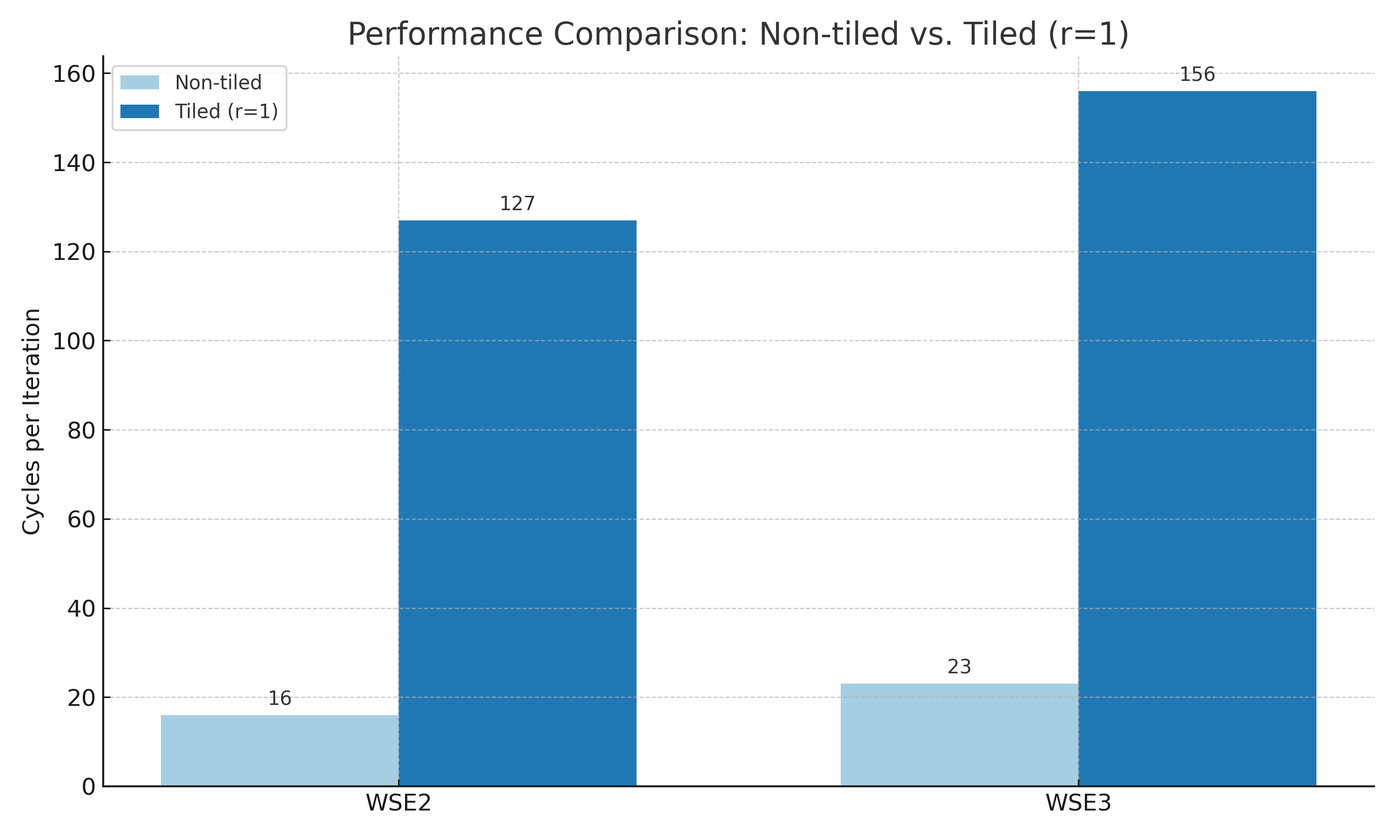
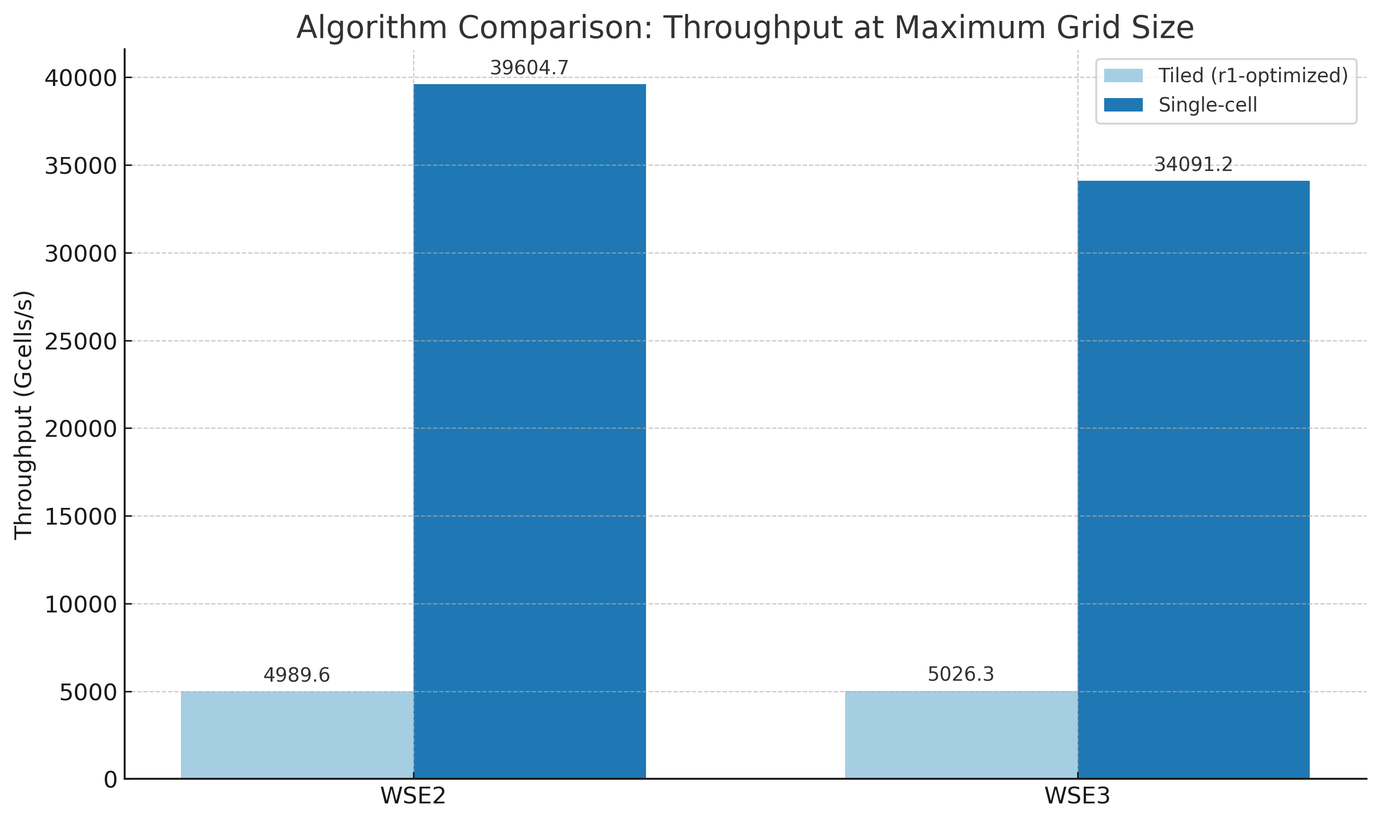
finished editing experiments section

diff --git a/03_Content/6_Experiments.tex b/03_Content/6_Experiments.tex
@@ -13,15 +13,6 @@ Furthermore, we run our own weak scaling experiments on the simulator and find t
 We measure the runtime of our algorithm by calculating it from the recoreded number of clock cycles used per iteration and the clock speed of the \ac{wse}. This is the standard methodology for recording performance data on Cerebras hardware \cite{jacquelin2022scalable}.
 Specifically, we ran every experiment for four iterations and took the average cycle count of the third and fourth iteration as we found the cycle count could be slightly inaccurate in the first two iterations \autoref{sec:stability_of_cycle_count_per_iteration}.
 
-To comapre the implementation to traditional \ac{hpc} hardware, we implemented our 2D star-shaped stencil using the Devito framework (version 4.8.19) in python (version 3.12.11). For this implementation we used the same symmetric, constant coefficients as we used for the experiments on the \ac{wse}.
-Devito can optimize compile the code for different hardware.
-We used a system with two AMD EPYC 9554 64-Core processors for the \ac{cpu} experiments and a system with one NVIDIA H100 SXM 80GB for the \ac{gpu} experiments. 
-For the \ac{gpu} experiments set Devito to use the OpenACC backend and the nvc compiler in version 25.5. The cuda driver version was 12.8.
-The experiments for \ac{cpu} and \ac{gpu} were conducted in the Vast.ai cloud.
-The system for the \ac{cpu} experiments has a total of \qty{128}{\mega\byte} of L2 cache and \qty{512}{\mega\byte} of L3 cache. It is equipped with \qty{1511}{\giga\byte} of DDR5 memory.
-
-%  The system has a total of \qty{128}{\mega\byte} of L2 cache and \qty{512}{\mega\byte} of L3 cache. It is equipped with \qty{1511}{\giga\byte} of DDR5 memory.
-
 \section{Foundational Characteristics on the WSE}
 Before comparing our stencil implementation for the \ac{wse} to other types of hardware, we first analyze its intrinsic scaling properties and stability.
 This includes our own weak scaling experiments, another set of experiments to analyze if the recored cycle count is stable for differnt numbers of iterations, and finally an analysis of our theoretical performance model and a comparison with it. 
@@ -82,6 +73,7 @@ Because of the higher flucuations in cycle count in the first two iterations, we
 \end{figure}
 
 \subsection{Theoretical Performance Model}
+\label{sec:c}
 We now analyze the impact of tiling and radius, both in our theoretical performance model and with experiments using our implementation.
 \begin{figure}[h]
     \centering
@@ -106,48 +98,33 @@ The largest tile size we could test is \numproduct{64 x 64} cells with a radius 
 \section{Comperative Performance Analysis}
 Comparing our implementation against implementations optimized for traditional \ac{hpc} architectures lets us assess for what parameters it is most benefitial. We also compare our specialized single cell implementation to the tiled implementation.  
 
-\subsection{Specialized vs. General-Purpose Kernel}
+\subsection{Specialized vs. General Kernel}
 The single-cell implementation is a heavily optimized implementation for the special case of only one element per \ac{pe}. It is useful for situations where the problem size is smaller than the physical dimensions of the \ac{wse}. In contrast to the tiled implementation, it doesn't require any runtime \ac{dsd} to \ac{dsr} transfers, asynchronous communication or multiple tasks. These aspects cause most of the overhead in the tiled implementation. Furthermore it does implement overlap between communication and computation which makes it significantly faster than the r1 optimized version of the tiled implementation.
 \begin{figure}[h]
     \centering
-    \includegraphics[width=0.5\linewidth]{algo_comparison.png}
-    \caption{Performance comparison of the specialized non-tiled and the r1-optimized tiled implementations for a radius-1 stencil. The specialized, non-tiled algorithm is significantly faster, achieving an 8x speedup on \ac{wse}-2 and a 7x speedup on \ac{wse}-3 due to its simpler communication and execution model.}
+    \includegraphics[width=0.7\linewidth]{algo_comparison.png}
+    \caption{Performance comparison of the specialized non-tiled and the r1-optimized tiled implementations for a radius-1 stencil. The specialized, non-tiled implementation achievieves an 8x speedup on \ac{wse}-2 and a 7x speedup on \ac{wse}-3.}
     \label{fig:algo_comparison}
 \end{figure}
 
-\section{Comparison of Cerebras and traditional \ac{hpc}-Arcitectures}
-We conducted two more experiments to compare the performance of the implemented stencil on the Cerebras \ac{wse} with highly optimized Devito implementations for \ac{cpu} and \ac{gpu}. 
+\subsection{Comparison with HPC Architectures}
+To quantify the advantage of the \ac{wse} architecture, we conducted two more experiments comparing the performance of our stencil inpmpenetation with highly optimized Devito implementations for \ac{cpu} and \ac{gpu}. 
 
-For each benchmark we fixed the total work load, i.e., $width\times height\times N$, so that every configuration performs the same number of stencil updates while varying only the memory footprint. Steady-state performance was obtained by first running an untimed warm-up of $N$ iterations (triggering JIT compilation, allocations and data transfers) and then timing a second run of the same $N$ iterations with all data already resident on the \ac{cpu} or \ac{gpu}. This was done for grids with a total size of $10^x$ for $x \in \{4..9\}$ and radii in \numrange{1}{6}.
-The compute work, while in this experiment constant for different grid sizes, rises linearly with the radius, which on the other hand has no significant effect on memory footprint.
-Furthermore, we calculated the neccessary tile size to fit the same grid sizes on the \ac{wse}-3 and ran an experiment with this tile size for radii \numrange{1}{6} and a total grid size that results in \numproduct{5 x 5} active \acp{pe} in the simulator for four iterations and took the average cycle count of the last two iterations.
-Assuming perfect scaling accross the WSE as suggested by the results from \autoref{sec:pe_overhead}, we used this cycle count together with the \ac{wse}s clock frequency to calculate the theoretical throughput when using the entire \ac{wse} dimensions.
-We also added the throughput, the non-tiled algorithm would achieve on the \ac{wse}-3 where the \ac{wse}-3s hardware dimensions allow for the grid size.
-As the $width$ and $height$, we strictly used powers of 10, resulting in rectangular grids for odd $x$.
-To have all experiments use \numproduct{5 x 5} active \acp{pe} in the simulator, we used a grid size of $\roundbrack{3\times t_w + 2r, 3\times t_h + 2r}$.
+To enable a fair evaluation, we implemented the same 2D star-shaped stencil using the Devito framework (version 4.8.19) in python (version 3.12.11), using the same symmetric, constant coefficients that we used for the experiments on the \ac{wse}.
+Devito automatically optimizes and compiles the code for various hardware targets.
+For the \ac{cpu} experiments, we used a system equipped with two AMD EPYC 9554 64-Core processors. For the \ac{gpu} experiments, we employed a system with one NVIDIA H100 SXM 80GB \ac{gpu}, configured Devito to use the OpenACC backend, and compiled with the nvc compiler (version 25.5) under CUDA driver version 12.8. All \ac{cpu} and \ac{gpu} experiments ran in the Vast.ai cloud.
+Steady-state performance was obtained by first running an untimed warm-up of $N$ iterations (triggering JIT compilation, allocations and data transfers) and then timing a second run of the same $N$ iterations with all data already resident on the \ac{cpu} or \ac{gpu}.
+This was done for grids with a total size of $10^i$ for $i \in \{4..9\}$ and $r\in{1..6}$.
 
-To ensure the entire problem grid fits onto the available number of \acp{pe}, the tile size ($t_w$, $t_h$) for a given grid of size ($G_w$, $G_h$) on a \ac{wse} with physical dimensions ($P_w$, $P_h$) is determined by:
+To compare these results with our implementation, we started from each grid size and calculated the minimal tile size that would allow the entire grid to fit on the \ac{wse}-3.
+We then ran simulations with this tile size for radii 1 to 6 and extrapolated the full-system throughput assuming perfect weak scaling. Furthermore we added the throughput that the single-cell implementation could achieve on the \ac{wse}-3 where the problem size is smaller than the physical dimensions of the \ac{wse}.
+
+In all experiments, we strictly used powers of 10 for the grid dimensions, sometimes resulting in rectangular grids (e.g. \numproduct{1e3 x 1e4} instead of \numproduct{\sqrt{1e7} x \sqrt{1e7}}). The required tile size ($t_w \times t_h$) for a given grid of size $G_w \times G_h$ on a \ac{wse} with physical dimensions $P_w \times P_h$ is determined by:
 \begin{equation}
     t_w = \left\lceil \frac{G_w}{P_w} \right\rceil, \quad t_h = \left\lceil \frac{G_h}{P_h} \right\rceil
 \end{equation}
 
-For example, to map the \numproduct{10e3 x 10e4} grid onto the \ac{wse}-3 with its \numproduct{762 x 1176} \acp{pe} array, we calculate the tile size. Mapping the grid's width to the \acp{pe} array's width results in a tile width of $\left\lceil \frac{1000}{762} \right\rceil = 2$ and a tile height of $\left\lceil \frac{10000}{1176} \right\rceil = 9$. However, mapping the grid's width to the \acp{pe} array's height is more efficient, yielding a tile width of $\left\lceil \frac{1000}{1176} \right\rceil = 1$ and a tile height of $\left\lceil \frac{10000}{762} \right\rceil = 14$. To minimize the total tile area and therefore the per-\ac{pe} workload, we chose the smaller configuration of $1 \times 14$. It is important to note that due to the radius constraint from \autoref{eq:radius_constraint}, the shorter dimension of the tile must be at least as large as the radius, so the effective tile size was adjusted accordingly if necessary.
-
-\begin{table}[h]
-    \centering
-    \caption{Final parameters for the experiment in the simulator for a grid size of \num{1e7}}
-    \begin{tabular}{ll}
-        \hline
-        Parameter & Value \\
-        \hline
-        Grid size & \numproduct{5 x 44} \\
-        Tile size & \numproduct{1 x 14} \\
-        Radius & \num{1} \\
-        Number of iterations & \num{2} and \num{4} \\
-        \hline
-    \end{tabular}
-    \label{tab:sim_params}
-\end{table}
+To map a rectangular grid of \numproduct{10e3 x 10e4} elements onto the \ac{wse}-3 with its dimensions of \numproduct{762 x 1176} \acp{pe}, we can calculate the tile size in two possible ways. Mapping the grid's width to the \ac{wse}'s width results in a tile width of $\left\lceil \frac{1000}{762} \right\rceil = 2$ and a tile height of $\left\lceil \frac{10000}{1176} \right\rceil = 9$. However, mapping the grid's width to the \ac{wse}'s height is more efficient, yielding a tile width of $\left\lceil \frac{1000}{1176} \right\rceil = 1$ and a tile height of $\left\lceil \frac{10000}{762} \right\rceil = 14$. To minimize the total tile area and therefore the per-\ac{pe} workload, we always chose the smaller configuration of $1 \times 14$. It is important to note that due to the radius constraint from \autoref{eq:radius_constraint}, the shorter dimension of the tile must be at least as large as the radius, so the effective tile size was adjusted accordingly if necessary.
 
 \begin{figure}[h]
     \centering
@@ -156,59 +133,60 @@ For example, to map the \numproduct{10e3 x 10e4} grid onto the \ac{wse}-3 with i
     \label{fig:gpu_cpu_constant_product}
 \end{figure}
 
-The results, shown in \autoref{fig:gpu_cpu_constant_product}, show that the \ac{cpu}'s throughput is very insensitive to the work allocation and differs only by a factor of \num{2.3} between its most efficient grid size of \num{1e6} and its least efficient grid size of \num{1e8} at a radius of 1. For the largest tested radius of \num{6} this effect is even smaller at a factor of \num{1.2}.
+\subsubsection{\ac{cpu} Performance}
+The results, shown in \autoref{fig:gpu_cpu_constant_product}, demonstrate that the \ac{cpu}'s throughput is unaffected by problem size and differs only by a factor of \num{2.3} between its ideal grid size of \num{1e6} and its least ideal grid size of \num{1e8} using radius one. For the largest tested radius of \num{6} this effect is even smaller at a factor of \num{1.2}.
 
-The \ac{cpu}s insensitivity to the work allocation suggests that it is compute limited.
-This gets confirmed by the fact that the \ac{cpu} throughput scales almost inversely with the radius. For the \ac{cpu} and its optimal grid size of $\num{1e6}$, the throughput for the radius-1 stencil is \num{6.2} times higher than for the radius-6 stencil, which is \num{6} times as computationally expensive. This proves the system's vast cache and the optimizations techniques applied by Devito very effective.
+If the problem was memory-bound, one would assume the \ac{cpu} to be more efficient for small grid sizes they could fit it the faster caches. So its indepependence of the problem size suggests that it is compute-limited.
+This gets confirmed by the fact that the \ac{cpu} throughput scales almost perfectly proportional to the inverse radius.
+At a grid size of $\num{1e6}$, the throughput for the $r=1$ stencil is \num{6.2} times higher than for the $r=6$ stencil, which is \num{6} times as computationally expensive. This proves the system's vast cache and the optimizations techniques applied by Devito very effective, shifting the problem from typically being memory-bound to being compute-bound. 
 
-Furthermore we observe that \ac{gpu} performance differs significantly depending on work allocation, with a peak throughput of \qty{131.4}{Gcells/s} for the optimal grid size of $\num{1e7}$ and a 128x lower throughput for the least efficient grid size of $\num{1e4}$. Interstingly a very large grid size of $\num{1e9}$ also results in a 9.7x lower throughput than the optimal grid size. While looking for a possible explanation for the pronounced optimum at a grid size of \num{1e7}, we find that the required memory of $\num{1e7}\times\qty{4}{\byte}=\qty{40}{\mega\byte}$ fits perfectly into \qty{50}{\mega\byte} L2 cache of the H100.
-Other than the \ac{cpu}, the \ac{gpu} is very insensitive to the radius. So much that all differences in performance for different radii are more likely attributed to measurement errors than to a real difference in the runtime.
-This strongly suggests that the \ac{gpu} is memory limited through all the different tested grid sizes.
+\subsubsection{\ac{gpu} Performance}
+Contrary to the \ac{cpu}, we observe that the \ac{gpu} performance differs significantly depending on the grid size, with a peak throughput of \qty{131.4}{Gcells/s} for the optimal grid size of \num{1e7} and a 128x lower throughput for the smallest tested grid size of $\num{1e4}$. Interstingly a very large grid size of \num{1e9} also results in a 9.7x lower throughput than the optimal grid size. While looking for a possible explanation for the pronounced optimum at a grid size of \num{1e7}, we find that the required memory of $\num{1e7}\times\qty{4}{\byte}=\qty{40}{\mega\byte}$ fits perfectly into the \qty{50}{\mega\byte} L2 cache of the H100.
+Unlike the \ac{cpu}, the \ac{gpu} is unaffected by the radius. So much that all differences in performance for different radii are more likely be attributed to measurement errors than to a real difference in the runtime. This strongly suggests that the \ac{gpu} is memory limited for all different tested grid sizes.
 
-The results show that for most tested configurations, the \ac{gpu} achieves higher throughput than the \ac{cpu}.
-However for very small grid sizes of \numproduct{100 x 100}, the \ac{cpu} is more efficient.
+\subsubsection{\ac{wse}-3 Performance}
+The \ac{wse}-3 throughput depends on both, the grid size and the radius. Its dependance on the radius is significant accross all grid sizes with a factor of \num{5.5} between radius \num{2} and \num{6} for a grid of \num{1e4} and factor of \num{2.6} between radius \num{2} and \num{6} for a grid of \num{1e9} (radius one is not comparable since it uses the computationally less intensive r1-optimized implementation).
+The more than linear scaling for small grid sizes can be explained by the fact that these problems use a tile size of \numproduct{1 x 1} for radius \num{1} and \numproduct{6 x 6} for radius \num{6} (because of the radius contraint in \autoref{eq:radius_constraint}) which results in an effective flops per \ac{pe} of $r^2(8r+1)$.
 
-The \ac{wse}-3 is very sensitive to both the work allocation and the radius. The sensitivity to radius is significant accross all grid sizes with a factor of \num{12.0} between radius \num{1} and \num{6} for a grid of \num{1e4} and factor of \num{8.1} between radius \num{1} and \num{6} for a grid of \num{1e9}.
-The more than linear scaling for small grid sizes can be explained by the fact that these problems use a tile size of \numproduct{1 x 1} for radius \num{1} and \numproduct{6 x 6} for radius \num{6} which results in $r^2(8r+1)$ flops per \ac{pe}. This number rises with the cube of $r$. The 12x now appears relatively low and is caused by communication also playing a major role in the overall time for these small grid sizes. For a grid size of \num{1e9} on the other hand, the tile size is constant for all radii and the scaling is closer to linear with an outlier for radius \num{1}, because this uses the $r1$ optimized tiled algorithm. The factor between radius \num{2} and \num{6} is \num{2.6}.
+Further analyzing the \ac{wse}-3s performance, we find that the throughput is linear increasing with the grid size for grids of \numrange{1e4}{1e6} elements. This is due to the fact that not all available \acp{pe} can be used for small grids like this and the assumption of perfect weak scaling. When using grid sizes from \num{1e6} to \num{1e8}, the implementation can utilize the whole \ac{wse} and the throughput scales as discussed in \autoref{sec:theoretical_performance_model_analysis}.
 
-Analyzing the \ac{wse}-3s performance, we find that the iterations per second is constant for grids of size \numrange{1e4}{1e6}. This leads to higher Gcells/s throughput for larger grid sizes in this range. This is because grid sizes smaller than \num{1e6} do not use the whole \ac{wse} dimensions and the scaling to more \acp{pe} comes without performance degradation. Grid sizes from \num{1e6} to \num{1e8} use the whole \ac{wse} and show slower iteration times as the grid size increases, but sublinear. For radius \num{1} the slowdown of time per iteration between grid sizes of \num{1e6} and \num{1e7} is only \num{1.5} and from \num{1e7} to \num{1e8} only \num{2.8}. However, starting from \num{1e8} the slowdown is almost linear with a factor of \num{7.8} between \num{1e8} and \num{1e9} for radius \num{1} and \num{9.8} for radius \num{2}. We assume this is because constant overheads are getting less significant relative to the computation at these grid sizes.
+The \ac{wse}-3 implementation outperforms the \ac{cpu} and \ac{gpu} for all tested grid sizes and radii with the most significant increase in throughput for the largest grid size of \num{1e9} and radius \num{1} with a factor of \num{12000} compared to the \ac{gpu} and \num{48000} compared to the \ac{cpu}. For these parameters our implementation reaches a throughput of \qty{165}{\tera cells/s}. Because the throughput for the stencil is independent from the radius on the \ac{gpu}, but not on the \ac{wse}-3, the performance increase from \ac{wse}-3 to \ac{gpu} for the same grid size and radius \num{6} is significantly smaller at \num{1500}.
 
-The \ac{wse}-3 implementation outperforms the \ac{cpu} and \ac{gpu} for all tested grid sizes and radii with the most significant increase in throughput for the largest grid size of \num{1e9} and radius \num{1} with a factor of \num{12000} compared to the \ac{gpu} and \num{48000} compared to the \ac{cpu}. For these parameters our implementation reaches a throughput of \qty{165}{\tera cells/s}. Because the throughput for the stencil is independent from the radius on the \ac{gpu}, but not on the \ac{wse}-3, the performance increase from \ac{wse}-3 to \ac{gpu} for the same grid size of \num{1e9} and radius \num{6} is significantly smaller at \num{1500}.
+% To evaluate the performance advantage of the specialized non-tiled algorithm, we compare it directly with highly optimized implementations on traditional \ac{hpc} architectures using grid sizes that match the \ac{wse} dimensions. This comparison uses the actual \ac{wse} grid dimensions as the problem size, which represents the maximum grid size achievable with the non-tiled algorithm.
 
-
-% As a second experiment, we compared our implementation for a grid size of the \ac{gpu}-optimal $\num{1e7}$ to the optimized \ac{gpu} and \ac{cpu} implementation. To fit a size of $\num{1e3}\times\num{1e4}$ on the \ac{wse}-2 with dimensions of $750\times994$, we need a tile size of at least $2x11$ and on \ac{wse}-3 with dimensions of $762\times1176$ a tile size of at least $14x1$. As shown in the earlier experiments, degrade larger tile sizes always the performance so we used these minimum tile sizes. Because of the radius constraint from \autoref{eq:radius_constraint}, we need to increase the shorter dimension of the tile to the respective radius.
+% For \ac{wse}-2 with dimensions \numproduct{750 x 994} and \ac{wse}-3 with dimensions \numproduct{762 x 1176}, we measured the performance of the same radius-1 stencil on all three architectures.
 
 % \begin{figure}[h]
 %     \centering
-%     \includegraphics[width=0.5\linewidth]{cpu_gpu_cerebras_comparison.png}
-%     \caption{Performance comparison across architectures for a $10^3 \times 10^4$ grid. The Cerebras \ac{wse}-3 implementation significantly outperforms the \ac{gpu} (NVIDIA H100) and \ac{cpu} (AMD EPYC 9554) across all radii. While the \ac{gpu} performance is largely insensitive to the stencil radius, indicating a memory-bound workload, the \ac{cpu} and \ac{wse}-3 performance degrades as the computational cost increases.}
-%     \label{fig:cpu_gpu_cerebras_comparison}
+%     \includegraphics[width=0.7\linewidth]{cpu_gpu_cerebras_non_tiled_comparison.png}
+%     \caption{Performance comparison of the non-tiled Cerebras implementation against traditional \ac{hpc} architectures for radius-1 stencils. Results show iterations per second for grid sizes matching the \ac{wse} dimensions. The non-tiled algorithm achieves speedups of over 1000x compared to \ac{gpu} and over 12,000x compared to \ac{cpu}.}
+%     \label{fig:cpu_gpu_cerebras_non_tiled_comparison}
 % \end{figure}
 
-% While the times for the \ac{gpu} and \ac{cpu} for this experiment where directly measured, we used the cycle count per iteration from the simulator for a significantly smaller grid size and a small iteration count, assumed perfect scaling to the full \ac{wse} dimensions as suggested from \autoref{sec:pe_overhead}, a constant cycle count per iteration and the clock speed of the \ac{wse} to calculate the time per iteration.
+% The results demonstrate the exceptional performance of the non-tiled algorithm. For the \ac{wse}-2 grid size (\numproduct{750 x 994}), the Cerebras implementation achieves \num{68750000} iterations per second, compared to \num{65707} for the \ac{gpu}. This represents a speedup of 1046x.
+% For the \ac{wse}-3 grid size (\numproduct{762 x 1176}), the Cerebras implementation achieves \num{47826087} iterations per second, compared to \num{62743} for the \ac{gpu} with a speedup of 762x.
 
-% The speedup for radius 1 from \ac{cpu} to \ac{gpu} is about 40x. From \ac{gpu} to \ac{wse}-3 we observe an even larger speedup of about 358x. As the problem is compute bound on cerebras while it is memory bound on \ac{gpu}, the speedup for radius 4 from \ac{gpu} to \ac{wse}-3 is significantly smaller at about 53x
+% The performance advantage stems from the direct mapping of grid elements to \acp{pe}, enabling defacto in-memory computation with a memory that is significantly faster than the \ac{gpu} memory. While this approach is limited to grid sizes not exceeding the \ac{wse} dimensions, it provides unparalleled performance for problems that fit within these constraints.
 
+\section{Achieved Computational Efficiency}
+We already discussed how close the throughput of our implementation is to the throughput of the performance model.
+Nonetheless how close an algorithm is to specific hardware peak performance is also an important metric as it is typically used to evaluate the performance of algorithms on different kinds of harware.
 
-To evaluate the performance advantage of the specialized non-tiled algorithm, we compare it directly with highly optimized implementations on traditional \ac{hpc} architectures using grid sizes that match the \ac{wse} dimensions. This comparison uses the actual \ac{wse} grid dimensions as the problem size, which represents the maximum grid size achievable with the non-tiled algorithm.
+The achieved computational efficiency can be calculated from the cycle counts measured in the earlier experiments, the total number of \acp{flop} executed in these experiments and the maximum number of \acp{flop} that can be executed per cycle and \ac{pe} on the \ac{wse}.
 
-For \ac{wse}-2 with dimensions \numproduct{750 x 994} and \ac{wse}-3 with dimensions \numproduct{762 x 1176}, we measured the performance of the same radius-1 stencil on all three architectures.
+As described in \autoref{sec:implementation}, the non-tiled implementation and the r1-optimized implementation has \num{6} \acp{flop} per cell, iteration and \ac{pe} while the general tiled implementation has $8r+1$ \acp{flop} per cell, iteration and \ac{pe}. From the tiled sizes used in the different experiments, we first calculate the total number of \acp{flop} ($F_{total}$) per iteration and \ac{pe} as:
+\begin{equation}
+    F_{total} = t_w t_h (8r+1)
+\end{equation}
+and then divide by the measured cycle count $C_{measured}$ per iteration to get the average number of \acp{flop} per cycle and \ac{pe} ($F_{avg}$) as:
+\begin{equation}
+    F_{avg} = \frac{F_{total}}{C_{measured}}
+\end{equation}
 
-\begin{figure}[h]
-    \centering
-    \includegraphics[width=0.7\linewidth]{cpu_gpu_cerebras_non_tiled_comparison.png}
-    \caption{Performance comparison of the non-tiled Cerebras implementation against traditional \ac{hpc} architectures for radius-1 stencils. Results show iterations per second for grid sizes matching the \ac{wse} dimensions. The non-tiled algorithm achieves speedups of over 1000x compared to \ac{gpu} and over 12,000x compared to \ac{cpu}.}
-    \label{fig:cpu_gpu_cerebras_non_tiled_comparison}
-\end{figure}
-
-The results demonstrate the exceptional performance of the non-tiled algorithm. For the \ac{wse}-2 grid size (\numproduct{750 x 994}), the Cerebras implementation achieves \num{68750000} iterations per second, compared to \num{65707} for the \ac{gpu}. This represents a speedup of 1046x.
-For the \ac{wse}-3 grid size (\numproduct{762 x 1176}), the Cerebras implementation achieves \num{47826087} iterations per second, compared to \num{62743} for the \ac{gpu} with a speedup of 762x.
-
-The performance advantage stems from the direct mapping of grid elements to \acp{pe}, enabling defacto in-memory computation with a memory that is significantly faster than the \ac{gpu} memory. While this approach is limited to grid sizes not exceeding the \ac{wse} dimensions, it provides unparalleled performance for problems that fit within these constraints.
-
-\section{Percentage of peak performance}
-Using the cycle counts per iteration from the simulator, we calculated the percentage of the \ac{wse}-2 and \ac{wse}-3 peak fp32 performance for different tile sizes and radii.
-As described in \autoref{sec:implementation}, the non-tiled implementation and the r1-optimized implementation use \num{6} flops per grid element and iteration while the general tiled implementation uses \num{9} flops per grid element and iteration. From the respectively used tiled sizes in the different experiments, we first calculate the total number of flops per iteration and \ac{pe} and then divide by the measured cycle count per iteration to get an average flops per cycle and \ac{pe}. We find that the maximum number of fp32 operations per cycle and \ac{pe} can be obtained with \texttt{@fadds} instructions, which support a simd width of 2 in \ac{wse}-2 and 4 in \ac{wse}-3, while \texttt{@fmacs} is not supported in simd mode. Using the calculated average flops per cycle and \ac{pe} and the maximum flops per cycle and \ac{pe}, we calculate the percentage of the peak performance \autoref{fig:percent_pflops}.
+We find that the maximum number of FP32 operations per cycle and \ac{pe} ($F_{max}$) can be obtained with \texttt{@fadds} instructions, which support a \ac{simd} width of 2 in \ac{wse}-2 and 4 in \ac{wse}-3 (\texttt{@fmacs} is not supported in \ac{simd} mode). Using the calculated average number of \acp{flop} per cycle and \ac{pe} $F_{avg}$ and the maximum number of \acp{flop} per cycle and \ac{pe} $F_{max}$, we calculate the percentage of the peak performance $E_{avg}$ as:
+\begin{equation}
+    E_{avg} = \frac{F_{avg}}{F_{max}}
+\end{equation}
 
 \begin{figure}[h]
     \centering
@@ -217,16 +195,8 @@ As described in \autoref{sec:implementation}, the non-tiled implementation and t
     \label{fig:percent_pflops}
 \end{figure}
 
-For radius 1, and the maximum tile size of \numproduct{64 x 64} we reach \num{48}\% of the peak performance for \ac{wse}-2 and \num{36}\% for \ac{wse}-3.
+For radius 2, and the maximum tile size of \numproduct{64 x 64} we reach \num{82}\% of the peak performance for \ac{wse}-2 and \num{41}\% for \ac{wse}-3.
 While these numbers are per \ac{pe}, they also hold for the entire system, if the problem size is large enough to use the whole \ac{wse} dimensions.
-In general, the achieved percentage of peak performance mostly increases with the tile size and decreases with the radius.
+In general, the achieved percentage of peak performance mostly increases with the tile size. There is no clear trend for the radius, except for radius 1, which is using the r1-optimized implementation and as discussed in \autoref{sec:theoretical_performance_model_analysis} farthest from the peak performance.
 
 In the optimal configuraion, our implementation reaches a sustained performance of 800 (797,6) TFLOP/s for \ac{wse}-2 and 1430 (1431,3) TFLOP/s for \ac{wse}-3.
-
-\section{What contributes to the cycle count?}
-We analyze the the instruction traces the simulator can record for what contributes to the the measured cycle counts.
-We find that the effective simd width for some instructions in our implementation is lower than the theoretical maximum.
-For \texttt{@fadds} it is 1.25 on wse-2 and 1.5 on wse-3.
-The \texttt{@fmuls} instruction only have a simd width of 1 and we find that we measure exactly one cycle per instruction.
-
-Here is a table that lists the different number of cycles per program segment. 

diff --git a/Figures/code/plot_algo_comparison.py b/Figures/code/plot_algo_comparison.py
@@ -2,34 +2,113 @@ import matplotlib.pyplot as plt
 import numpy as np
 from colors import light_blue, blue, light_green, green, light_red, red
 
-# Data
+# WSE Hardware specifications
+WSE2_CLOCK_RATE = 850e6  # Hz
+WSE3_CLOCK_RATE = 875e6  # Hz
+WSE2_DIMENSIONS = (750, 994)  # width x height
+WSE3_DIMENSIONS = (762, 1176)  # width x height
+
+# Algorithm performance data (cycles per iteration) - only radius 1
+algorithm_data = {
+    'WSE2': {
+        'Non-tiled (r=1)': 16,
+        'Tiled (r=1)': 127,
+    },
+    'WSE3': {
+        'Non-tiled (r=1)': 23,
+        'Tiled (r=1)': 156,
+    }
+}
+
+def calculate_throughput(cycles_per_iter, clock_rate, grid_size):
+    """Calculate throughput in Gcells/s"""
+    iterations_per_second = clock_rate / cycles_per_iter
+    cells_per_second = grid_size * iterations_per_second
+    return cells_per_second / 1e9  # Convert to Gcells/s
+
+def get_max_grid_size(wse_type, algorithm_type):
+    """Get maximum grid size for different algorithms"""
+    if wse_type == 'WSE2':
+        width, height = WSE2_DIMENSIONS
+        total_pes = width * height  # 745,500 PEs
+    else:
+        width, height = WSE3_DIMENSIONS
+        total_pes = width * height  # 896,112 PEs
+    
+    if 'Non-tiled' in algorithm_type:
+        # Non-tiled uses one cell per PE
+        return total_pes
+    else:
+        # Tiled implementation with 1x1 tiles - also one cell per PE
+        return total_pes * 1 * 1
+
+# Calculate throughput for each algorithm
 labels = ['WSE2', 'WSE3']
-nontiled_values = [16, 23]
-tiled_values = [127, 156]
+nontiled_throughputs = []
+tiled_throughputs = []
 
+for wse_type in ['WSE2', 'WSE3']:
+    clock_rate = WSE2_CLOCK_RATE if wse_type == 'WSE2' else WSE3_CLOCK_RATE
+    
+    # Non-tiled throughput
+    nontiled_cycles = algorithm_data[wse_type]['Non-tiled (r=1)']
+    nontiled_grid_size = get_max_grid_size(wse_type, 'Non-tiled (r=1)')
+    nontiled_throughput = calculate_throughput(nontiled_cycles, clock_rate, nontiled_grid_size)
+    nontiled_throughputs.append(nontiled_throughput)
+    
+    # Tiled throughput
+    tiled_cycles = algorithm_data[wse_type]['Tiled (r=1)']
+    tiled_grid_size = get_max_grid_size(wse_type, 'Tiled (r=1)')
+    tiled_throughput = calculate_throughput(tiled_cycles, clock_rate, tiled_grid_size)
+    tiled_throughputs.append(tiled_throughput)
 
+# Create bar plot
 x = np.arange(len(labels))  # the label locations
 width = 0.35  # the width of the bars
 
 fig, ax = plt.subplots(figsize=(10, 6))
-rects1 = ax.bar(x - width/2, nontiled_values, width, label='Non-tiled', color=light_blue)
-rects2 = ax.bar(x + width/2, tiled_values, width, label='Tiled (r=1)', color=blue)
+rects1 = ax.bar(x - width/2, tiled_throughputs, width, label='Tiled (r1-optimized)', color=light_blue)
+rects2 = ax.bar(x + width/2, nontiled_throughputs, width, label='Single-cell', color=blue)
 
 # Add some text for labels, title and axes ticks
-ax.set_ylabel('Cycles per Iteration')
-ax.set_title('Performance Comparison: Non-tiled vs. Tiled (r=1)')
+ax.set_ylabel('Throughput (Gcells/s)')
+ax.set_title('Algorithm Comparison: Throughput at Maximum Grid Size')
 ax.set_xticks(x)
 ax.set_xticklabels(labels)
 ax.legend()
 
-ax.bar_label(rects1, padding=3)
-ax.bar_label(rects2, padding=3)
+# Add value labels on bars
+ax.bar_label(rects1, padding=3, fmt='%.1f')  # tiled bars
+ax.bar_label(rects2, padding=3, fmt='%.1f')  # non-tiled bars
 
 fig.tight_layout()
-
 plt.grid(True, linestyle='--', alpha=0.7, axis='y')
 
 # Save the plot
-plt.savefig('algo_comparison.png', dpi=300)
+plt.savefig('algo_comparison.png', dpi=300, bbox_inches='tight')
+print("Algorithm comparison plot saved as 'algo_comparison.png'")
+
+# Print detailed results
+print("\nAlgorithm Comparison Results:")
+print("=" * 70)
+print(f"{'WSE Type':<10} {'Algorithm':<20} {'Grid Size':<15} {'Throughput (Gcells/s)':<20}")
+print("-" * 70)
+
+for i, wse_type in enumerate(['WSE2', 'WSE3']):
+    # Tiled results
+    tiled_grid = get_max_grid_size(wse_type, 'Tiled (r=1)')
+    print(f"{wse_type:<10} {'Tiled (r1-optimized)':<20} {tiled_grid:<15,} {tiled_throughputs[i]:<20.1f}")
+    
+    # Non-tiled results
+    nontiled_grid = get_max_grid_size(wse_type, 'Non-tiled (r=1)')
+    print(f"{wse_type:<10} {'Single-cell':<20} {nontiled_grid:<15,} {nontiled_throughputs[i]:<20.1f}")
+    print()
+
+print("=" * 70)
+print("Notes:")
+print("- Single-cell: 1 cell per PE (limited by WSE physical dimensions)")
+print("- Tiled (r1-optimized): 1×1 tiles (1 cell per PE, same grid size but with tiled algorithm overhead)")
+print(f"- WSE-2 dimensions: {WSE2_DIMENSIONS[0]}×{WSE2_DIMENSIONS[1]} = {WSE2_DIMENSIONS[0]*WSE2_DIMENSIONS[1]:,} PEs")
+print(f"- WSE-3 dimensions: {WSE3_DIMENSIONS[0]}×{WSE3_DIMENSIONS[1]} = {WSE3_DIMENSIONS[0]*WSE3_DIMENSIONS[1]:,} PEs")
 
 plt.show() 

diff --git a/03_Content/2_Background.tex b/03_Content/2_Background.tex
@@ -61,7 +61,7 @@ Each \ac{pe} allows to execute certain instructions in parallel with \acp{simd} 
     \centering
     \caption{Maximum \ac{simd}-width for selected instruction types}
     \label{tab:simd_operations}
-    \begin{tabular}{@{}cccc@{}}
+    \begin{tabular}{@{}llll@{}}
         \toprule
         Op code & desciption & \ac{wse}-2 & \ac{wse}-3 \\
         \midrule

diff --git a/01_Document_administration/e_AbbreviationDefinitions.tex b/01_Document_administration/e_AbbreviationDefinitions.tex
@@ -84,6 +84,11 @@
 	long={\textbf{H}igh-\textbf{P}erformance \textbf{C}omputing},
 	tag={Computing},
 }
+\DeclareAcronym{flops}{
+	short={FLOPS},
+	long={\textbf{F}lops},
+	tag={Computing},
+}
 \DeclareAcronym{sdk}{
 	short={SDK},
 	long={\textbf{S}oftware \textbf{D}evelopment \textbf{K}it},
